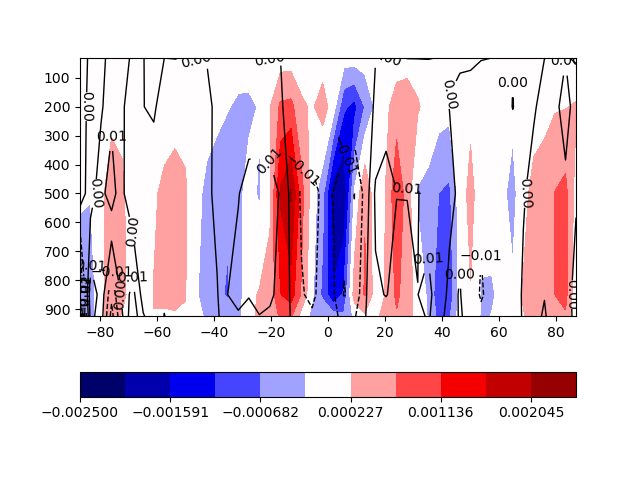
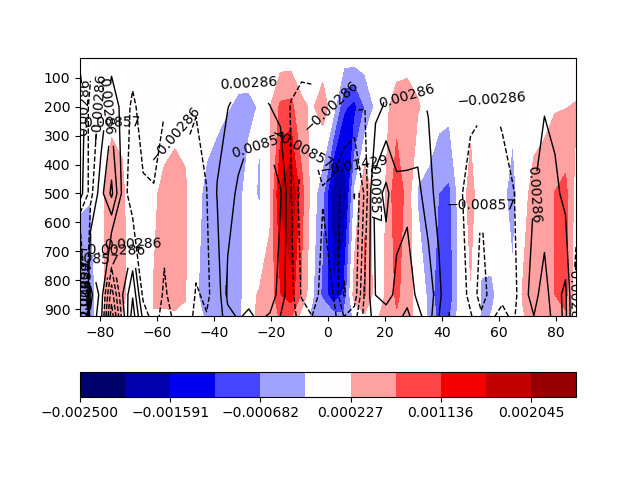
Add levels to omega contour plot

diff --git a/Numlao_speedy_example.py b/Numlao_speedy_example.py
@@ -121,7 +121,7 @@ plt.savefig("v_zonal_anomaly.png")
 
 fig,ax=plt.subplots(1,1)
 
-c = ax.contour(x_lat,y_lev,omega_zonal_mean,colors='k',linewidths=1)
+c = ax.contour(x_lat,y_lev,omega_zonal_mean,colors='k',linewidths=1, levels=np.linspace(-0.02,0.02,8))
 cf = ax.contourf(x_lat, y_lev, omega_zonal_nino_mean - omega_zonal_mean,
               cmap='seismic', levels=np.linspace(-0.0025,0.0025,12))
 ax.clabel(c, inline=True, fontsize=10)
